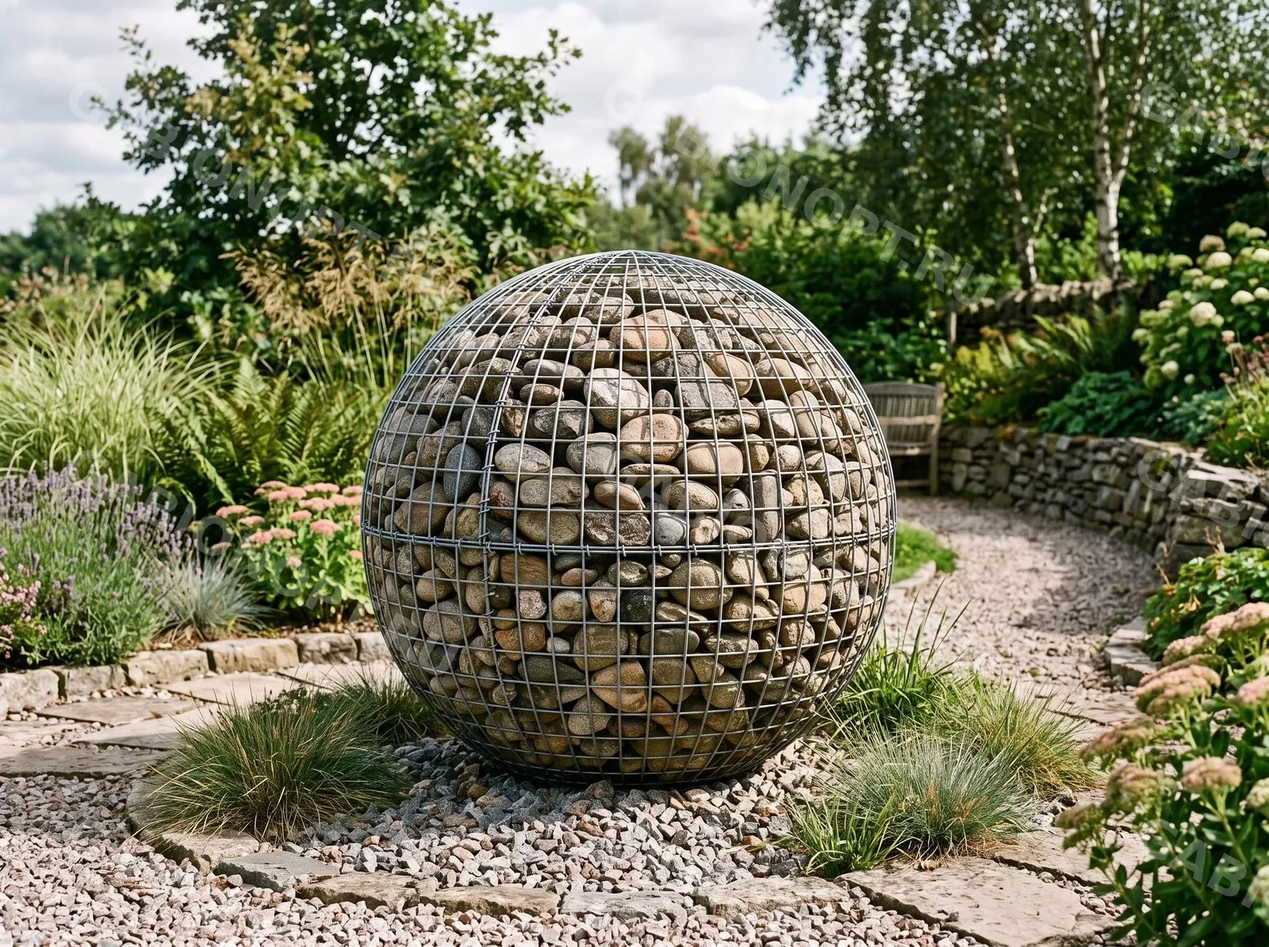
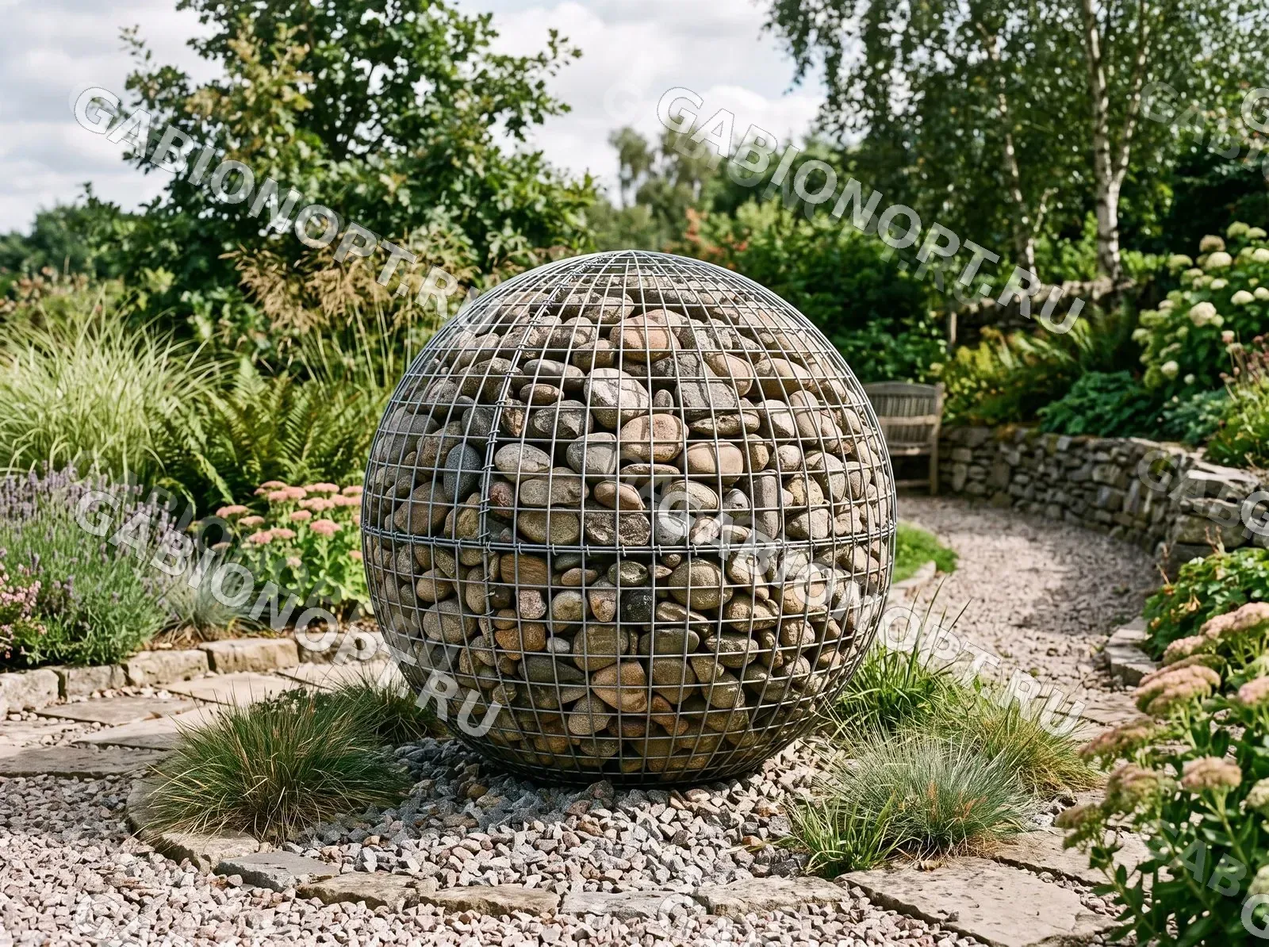
Strengthen watermark contrast with outline, add cache-busting to ref photos, scroll to grid top on filter change

diff --git a/assets/catalog.js b/assets/catalog.js
@@ -143,6 +143,13 @@
     state.size = [];
   }
 
+  function scrollToGridTop() {
+    var target = qs("#catalogToolbar") || qs("#plist");
+    if (!target) return;
+    var top = target.getBoundingClientRect().top + window.pageYOffset - 90;
+    if (window.pageYOffset > top) window.scrollTo({ top: top, behavior: "smooth" });
+  }
+
   function setParams(group, subcat) {
     var params = new URLSearchParams();
     if (group) params.set("group", group);
@@ -155,6 +162,7 @@
     state.diameter = [];
     state.size = [];
     render();
+    scrollToGridTop();
   }
 
   function matchesFacets(p, opts) {
@@ -456,20 +464,20 @@
     "shestipryadnaya-svivka": { src: "images/rope-shestipryadnaya.png", alt: "Схема сечения троса шестипрядной свивки 6×7" }
   };
   var GABION_REF_PHOTOS = {
-    "nasypnogo-tipa": { src: "images/gabion-nasypnogo-tipa.webp", alt: "Габион насыпного типа — пустой каркас" },
-    "korobchatye-dvojnogo-krucheniya": { src: "images/gabion-korobchatye-dvojnogo-krucheniya.webp", alt: "Коробчатый габион двойного кручения с камнем" },
-    "cilindricheskie": { src: "images/gabion-cilindricheskie.webp", alt: "Цилиндрический габион — пустой каркас" },
-    "korobchatye-svarnye": { src: "images/gabion-korobchatye-svarnye.webp", alt: "Коробчатые сварные габионы" },
-    "s-armirujushchej-panelju": { src: "images/gabion-s-armirujushchej-panelju.webp", alt: "Габионы с армирующей панелью на объекте" },
-    "shary": { src: "images/gabion-shary.webp", alt: "Габион-шар" },
-    "kashpo": { src: "images/gabion-kashpo.webp", alt: "Габион-кашпо с растениями" },
-    "klumby": { src: "images/gabion-klumby.webp", alt: "Габион-клумба с цветами" },
-    "matrasno-tyufyachnye": { src: "images/gabion-matrasno-tyufyachnye.webp", alt: "Матрацно-тюфячный габион — пустой каркас" }
+    "nasypnogo-tipa": { src: "images/gabion-nasypnogo-tipa.webp?v=2", alt: "Габион насыпного типа — пустой каркас" },
+    "korobchatye-dvojnogo-krucheniya": { src: "images/gabion-korobchatye-dvojnogo-krucheniya.webp?v=2", alt: "Коробчатый габион двойного кручения с камнем" },
+    "cilindricheskie": { src: "images/gabion-cilindricheskie.webp?v=2", alt: "Цилиндрический габион — пустой каркас" },
+    "korobchatye-svarnye": { src: "images/gabion-korobchatye-svarnye.webp?v=2", alt: "Коробчатые сварные габионы" },
+    "s-armirujushchej-panelju": { src: "images/gabion-s-armirujushchej-panelju.webp?v=2", alt: "Габионы с армирующей панелью на объекте" },
+    "shary": { src: "images/gabion-shary.webp?v=2", alt: "Габион-шар" },
+    "kashpo": { src: "images/gabion-kashpo.webp?v=2", alt: "Габион-кашпо с растениями" },
+    "klumby": { src: "images/gabion-klumby.webp?v=2", alt: "Габион-клумба с цветами" },
+    "matrasno-tyufyachnye": { src: "images/gabion-matrasno-tyufyachnye.webp?v=2", alt: "Матрацно-тюфячный габион — пустой каркас" }
   };
   var SETKA_REF_PHOTOS = {
-    "ot-bpla": { src: "images/setka-ot-bpla-wm.webp", alt: "Защитная сетка от БПЛА над габионной конструкцией" },
-    "protivokamnepadnye": { src: "images/setka-protivokamnepadnye-wm.webp", alt: "Противокамнепадный барьер из стального троса и сетки на склоне" },
-    "dvojnogo-krucheniya": { src: "images/setka-dvojnogo-krucheniya-wm.webp", alt: "Сетка двойного кручения, крупный план плетения" }
+    "ot-bpla": { src: "images/setka-ot-bpla-wm.webp?v=2", alt: "Защитная сетка от БПЛА над габионной конструкцией" },
+    "protivokamnepadnye": { src: "images/setka-protivokamnepadnye-wm.webp?v=2", alt: "Противокамнепадный барьер из стального троса и сетки на склоне" },
+    "dvojnogo-krucheniya": { src: "images/setka-dvojnogo-krucheniya-wm.webp?v=2", alt: "Сетка двойного кручения, крупный план плетения" }
   };
   function refPhoto(p) {
     if (p.group === "trosy") return ROPE_DIAGRAMS[p.subcat] || null;
@@ -641,6 +649,7 @@
         if (!e.target.checked && idx !== -1) state.coating.splice(idx, 1);
         renderFilterbar();
         renderGrid();
+        scrollToGridTop();
       } else if (e.target.matches("[data-diameter]")) {
         var dval = parseFloat(e.target.getAttribute("data-diameter"));
         var didx = state.diameter.indexOf(dval);
@@ -648,6 +657,7 @@
         if (!e.target.checked && didx !== -1) state.diameter.splice(didx, 1);
         renderFilterbar();
         renderGrid();
+        scrollToGridTop();
       } else if (e.target.matches("[data-size]")) {
         var szval = parseFloat(e.target.getAttribute("data-size"));
         var szidx = state.size.indexOf(szval);
@@ -655,6 +665,7 @@
         if (!e.target.checked && szidx !== -1) state.size.splice(szidx, 1);
         renderFilterbar();
         renderGrid();
+        scrollToGridTop();
       }
     });
 

diff --git a/catalog.html b/catalog.html
@@ -19,7 +19,7 @@
 <link rel="preconnect" href="https://fonts.googleapis.com">
 <link rel="preconnect" href="https://fonts.gstatic.com" crossorigin>
 <link href="https://fonts.googleapis.com/css2?family=Golos+Text:wght@400;500;600;700;800&family=JetBrains+Mono:wght@400;500;600&display=swap" rel="stylesheet">
-<link rel="stylesheet" href="assets/style.css?v=35">
+<link rel="stylesheet" href="assets/style.css?v=36">
 <script type="application/ld+json">
 {
   "@context": "https://schema.org",
@@ -305,8 +305,8 @@
   <button type="button" class="btn btn-primary btn-sm" id="cookieAccept">Понятно</button>
 </div>
 
-<script src="assets/nav.js?v=35"></script>
-<script src="assets/catalog.js?v=35"></script>
+<script src="assets/nav.js?v=36"></script>
+<script src="assets/catalog.js?v=36"></script>
 <script>
 (function () {
   "use strict";

diff --git a/primenenie.html b/primenenie.html
@@ -18,7 +18,7 @@
 <link rel="preconnect" href="https://fonts.googleapis.com">
 <link rel="preconnect" href="https://fonts.gstatic.com" crossorigin>
 <link href="https://fonts.googleapis.com/css2?family=Golos+Text:wght@400;500;600;700;800&family=JetBrains+Mono:wght@400;500;600&display=swap" rel="stylesheet">
-<link rel="stylesheet" href="assets/style.css?v=35">
+<link rel="stylesheet" href="assets/style.css?v=36">
 <!-- Yandex.Metrika counter -->
 <script type="text/javascript">
     (function(m,e,t,r,i,k,a){
@@ -356,7 +356,7 @@
   <button type="button" class="btn btn-primary btn-sm" id="cookieAccept">Понятно</button>
 </div>
 
-<script src="assets/nav.js?v=35"></script>
+<script src="assets/nav.js?v=36"></script>
 <script>
 (function () {
   "use strict";

diff --git a/production.html b/production.html
@@ -18,7 +18,7 @@
 <link rel="preconnect" href="https://fonts.googleapis.com">
 <link rel="preconnect" href="https://fonts.gstatic.com" crossorigin>
 <link href="https://fonts.googleapis.com/css2?family=Golos+Text:wght@400;500;600;700;800&family=JetBrains+Mono:wght@400;500;600&display=swap" rel="stylesheet">
-<link rel="stylesheet" href="assets/style.css?v=35">
+<link rel="stylesheet" href="assets/style.css?v=36">
 <!-- Yandex.Metrika counter -->
 <script type="text/javascript">
     (function(m,e,t,r,i,k,a){
@@ -275,7 +275,7 @@
   <button type="button" class="btn btn-primary btn-sm" id="cookieAccept">Понятно</button>
 </div>
 
-<script src="assets/nav.js?v=35"></script>
+<script src="assets/nav.js?v=36"></script>
 <script>
 (function () {
   "use strict";

diff --git a/index.html b/index.html
@@ -22,7 +22,7 @@
 <link rel="preconnect" href="https://fonts.googleapis.com">
 <link rel="preconnect" href="https://fonts.gstatic.com" crossorigin>
 <link href="https://fonts.googleapis.com/css2?family=Golos+Text:wght@400;500;600;700;800&family=JetBrains+Mono:wght@400;500;600&display=swap" rel="stylesheet">
-<link rel="stylesheet" href="assets/style.css?v=35">
+<link rel="stylesheet" href="assets/style.css?v=36">
 
 <script type="application/ld+json">
 {
@@ -440,7 +440,7 @@
   <button type="button" class="btn btn-primary btn-sm" id="cookieAccept">Понятно</button>
 </div>
 
-<script src="assets/nav.js?v=35"></script>
+<script src="assets/nav.js?v=36"></script>
 <script>
   var allSelectOptions = [];
 

diff --git a/privacy-policy.html b/privacy-policy.html
@@ -10,7 +10,7 @@
 <link rel="preconnect" href="https://fonts.googleapis.com">
 <link rel="preconnect" href="https://fonts.gstatic.com" crossorigin>
 <link href="https://fonts.googleapis.com/css2?family=Golos+Text:wght@400;500;600;700;800&family=JetBrains+Mono:wght@400;500;600&display=swap" rel="stylesheet">
-<link rel="stylesheet" href="assets/style.css?v=35">
+<link rel="stylesheet" href="assets/style.css?v=36">
 </head>
 <body>
 
@@ -92,6 +92,6 @@
   </div>
 </footer>
 
-<script src="assets/nav.js?v=35"></script>
+<script src="assets/nav.js?v=36"></script>
 </body>
 </html>

diff --git a/rekvizity.html b/rekvizity.html
@@ -10,7 +10,7 @@
 <link rel="preconnect" href="https://fonts.googleapis.com">
 <link rel="preconnect" href="https://fonts.gstatic.com" crossorigin>
 <link href="https://fonts.googleapis.com/css2?family=Golos+Text:wght@400;500;600;700;800&family=JetBrains+Mono:wght@400;500;600&display=swap" rel="stylesheet">
-<link rel="stylesheet" href="assets/style.css?v=35">
+<link rel="stylesheet" href="assets/style.css?v=36">
 </head>
 <body>
 
@@ -83,6 +83,6 @@
   </div>
 </footer>
 
-<script src="assets/nav.js?v=35"></script>
+<script src="assets/nav.js?v=36"></script>
 </body>
 </html>
